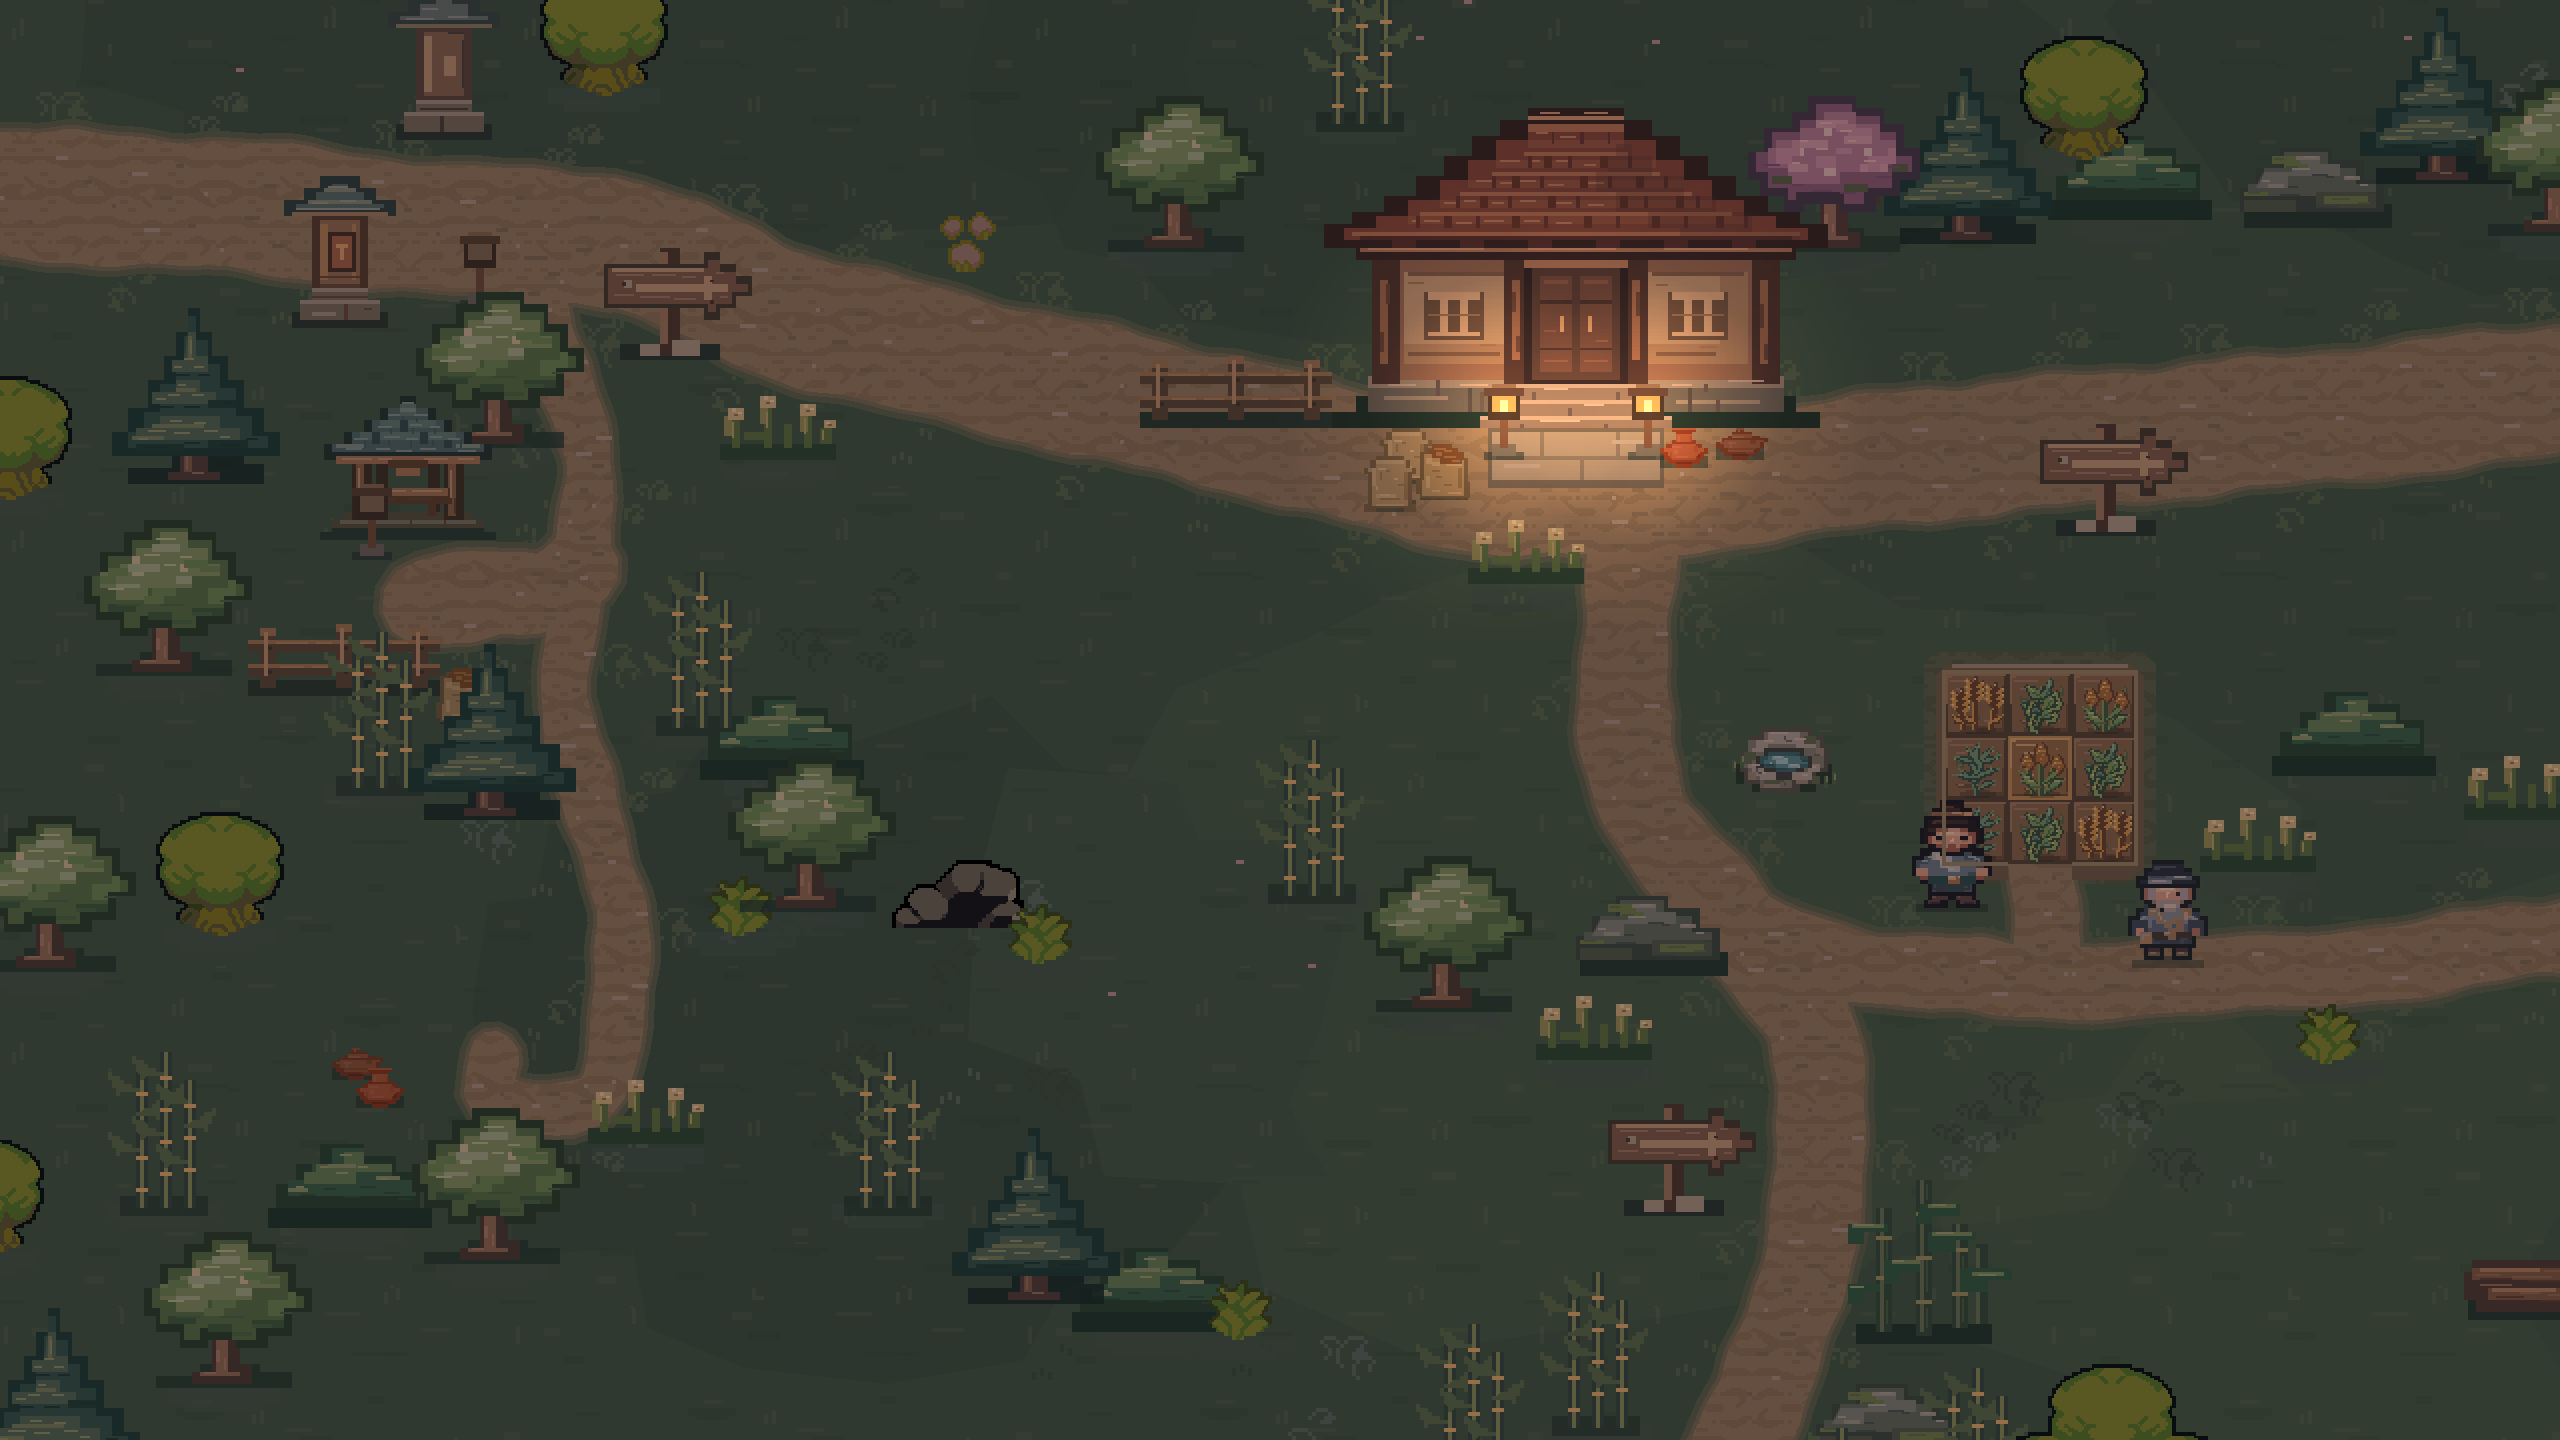
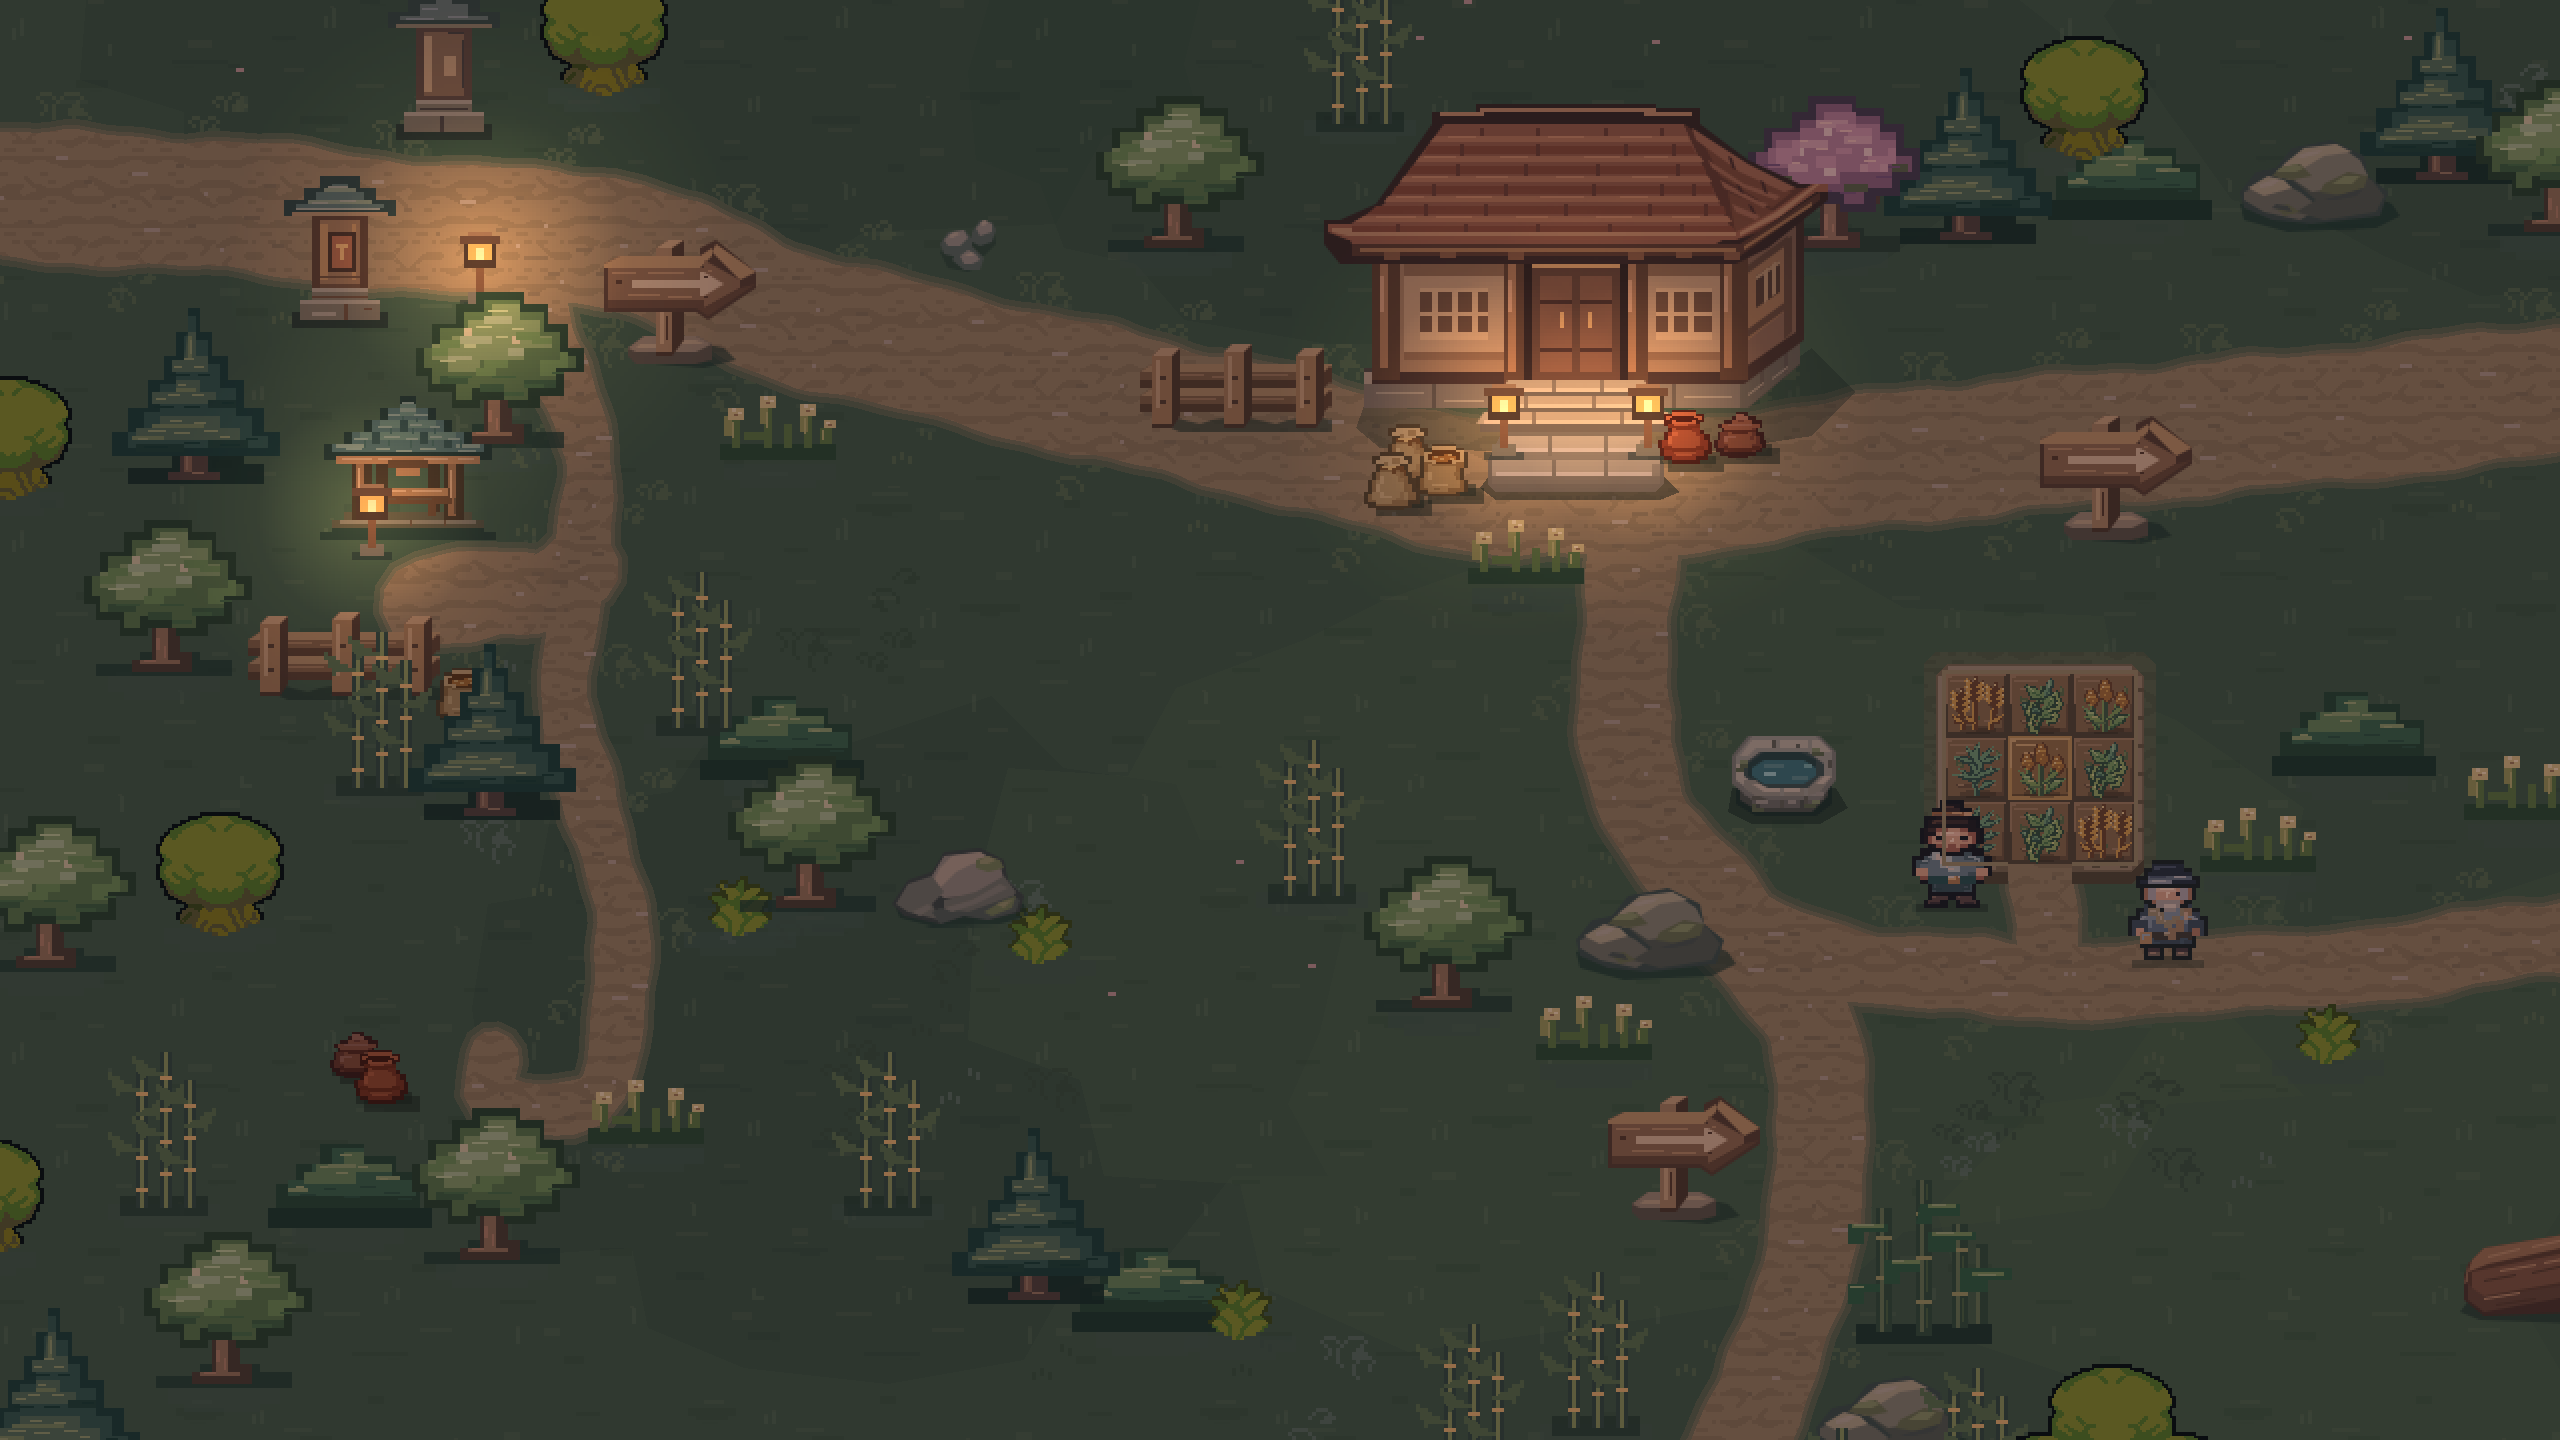
统一封地建筑和路边物件的斜俯视

diff --git a/docs/game_design/11_美术音效需求.md b/docs/game_design/11_美术音效需求.md
@@ -49,11 +49,11 @@ Windows 版默认窗口和画面渲染分辨率为 1920×1080，画面比例为 
 
 #### 封地的同框比例
 
-地图采用 2D 斜俯视，屋顶与正面同时可见，按脚底位置处理遮挡。参考《星露谷物语》实机中农舍、门前路径和耕地同框的关系，以及它把地表、通行和遮挡分层的做法。其地图使用 16×16 瓦片，常规 NPC 的地图精灵帧默认为 16×32。 [官方实机图库](https://www.stardewvalley.net/media/) · [地图规格](https://stardewvalleywiki.com/Modding:Maps#Basic_concepts) · [NPC 精灵规格](https://stardewvalleywiki.com/Modding:NPC_data)
+地图采用固定 2D 斜俯视。堂屋、蚕棚和南路亭的屋顶、门面与右侧同时可见，台阶与道路接平。屋檐、柱和底座以着地位置处理遮挡，场景投影往右下落。参考《星露谷物语》实机中农舍、门前路径和耕地同框的关系，以及它把地表、通行和遮挡分层的做法。其地图使用 16×16 瓦片，常规 NPC 的地图精灵帧默认为 16×32。 [官方实机图库](https://www.stardewvalley.net/media/) · [地图规格](https://stardewvalleywiki.com/Modding:Maps#Basic_concepts) · [NPC 精灵规格](https://stardewvalleywiki.com/Modding:NPC_data)
 
 本作以站姿实际着色的 27 像素衡量门面，以 14×14 的脚底碰撞校准通行，以 16×16 田格衡量道路和建筑宽度。单人常走的小径至少一格宽，能并行的主路至少两格宽。关柱各按石基的位置排序与碰撞。镜头缩放同时作用于人物、地表和建筑。
 
-场景里的物件沿用同一套斜俯视。陶罐用亮口沿、深色内壁和罐身弧面区分开口与带盖，谷袋露出袋口与垂下的袋身。光从画面左上来，物件影子落向右下。罐底和袋底是排序基准，走到后方时物件会挡住人物脚边。野果和野药用叶片朝向区分枝叶的高低，采过后当天可见果实或嫩梢减少。舆图沿用俯视示意，背包图案以小尺寸下能辨认种类为准。
+场景里的物件沿用同一套斜俯视。路牌和木栏露出板厚及柱顶，堆木露出亮木面和断面。陶罐用亮口沿、深色内壁和罐身弧面区分开口与带盖，谷袋露出袋口与垂下的袋身。光从画面左上来，物件影子落向右下。高物件以脚底排序，玩家走到它们后面会被挡住一部分。亭东雨棚的前柱单独按柱脚排序，居民与席案可以出现在棚内。野果和野药用叶片朝向区分枝叶的高低，采过后当天可见果实或嫩梢减少。舆图沿用俯视示意，背包图案以小尺寸下能辨认种类为准。
 
 西市到南路的木车有侧面、斜向内外和两种端面，左右沿路向镜像。车斗底、货物和近侧护栏分层绘制，阴影落在轮下。转弯按车辕朝向换帧，申禾领车走在车辕前，停稳后站到交谈的一侧。
 
